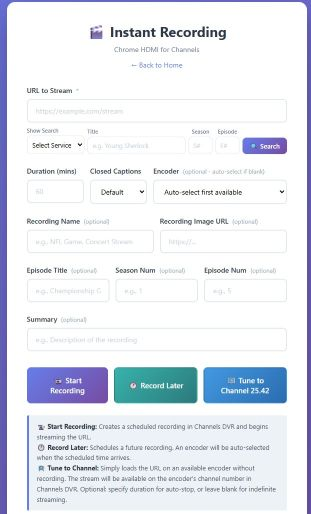
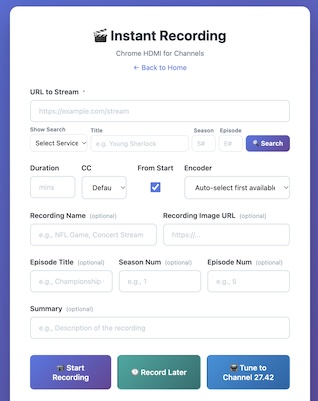
Document From Start and in-stream login; fit CC and the options row on phones
- README: add From Start to Instant Recording, the fromstart parameter for
  M3U URLs, and logging in during a stream when a service is logged out.
  Update the Instant Recording screenshot.
- Instant page: widen the CC box so "Default" isn't cut off, taking the
  space from Duration (with less side padding so "mins" still fits).
- On phones, keep Duration, CC and From Start on one line and let Encoder
  wrap below at full width, instead of stacking all four.

diff --git a/constants.js b/constants.js
@@ -2281,6 +2281,16 @@ const INSTANT_PAGE_HTML = `
                 margin-bottom: 24px;
             }
 
+            /* Keep Duration, CC and From Start on one line; Encoder wraps below at full width */
+            .form-row.options-row {
+                flex-direction: row;
+                flex-wrap: wrap;
+            }
+
+            .form-row.options-row .form-group.wide {
+                flex: 1 1 100%;
+            }
+
             .header h1 {
                 font-size: 24px;
             }
@@ -2340,8 +2350,8 @@ const INSTANT_PAGE_HTML = `
                 <div id="search_status" style="margin-top:6px;font-size:12px;color:#718096;display:none;"></div>
             </div>
 
-            <div class="form-row">
-                <div class="form-group narrow">
+            <div class="form-row options-row">
+                <div class="form-group narrow" style="flex:0.5;">
                     <label>
                         Duration
                     </label>
@@ -2350,12 +2360,14 @@ const INSTANT_PAGE_HTML = `
                         name="recording_duration"
                         id="recording_duration"
                         placeholder="mins"
+                        style="padding-left:10px;padding-right:10px;"
                         min="1"
                         step="1"
                     />
                 </div>
 
-                <div class="form-group narrow">
+                <!-- Wider than the other narrow fields so "Default" isn't cut off -->
+                <div class="form-group narrow" style="flex:0.75;">
                     <label>
                         CC
                     </label>

diff --git a/README.md b/README.md
@@ -263,6 +263,8 @@ For services not listed, use [Remote Access](#remote-access) to log in manually 
 
 **Automatic Login Check**: opt individual services in via their **Include in Automatic Login Check** checkbox to have CH4C periodically re-verify they're still logged in on each running encoder — and log back in immediately if a session has expired — without waiting for a failed stream to notice. Checks run during low-usage hours (1-3 AM local time) on a configurable weekly interval; encoders that are actively streaming are skipped, and the last run's result is shown on the Login Manager.
 
+**Login during a stream**: if a stream finds a service logged out (for example, the "Sign in for full access" prompt on a TBS/TNT free preview), CH4C logs in on that encoder's browser using the saved credentials, preferring the service's own over the shared TV provider credentials. It then restores fullscreen and carries on with the stream, which stays open throughout.
+
 ### Settings
 
 Navigate to `http://<CH4C_IP>:<CH4C_PORT>/settings` to configure:
@@ -309,6 +311,8 @@ http://<CH4C_IP>:2442/stream?url=https%3A%2F%2Fwatch.sling.com%2F1%2Fchannel%2F.
 http://<CH4C_IP>:2442/stream?url=https%3A%2F%2Fwww.espn.com%2Fwatch%2F...&cc=English
 ```
 
+**From Start in M3U URLs**: Streams started from Channels DVR or an M3U entry stay at the live point on live events, and seek back to the beginning when an on-demand show resumes partway. Append `&fromstart=1` to start a live event from the beginning, or `&fromstart=0` to keep an on-demand show's saved position. This works on Prime Video, Peacock, and Disney+ (Disney+ live events can't be rewound). See [From Start](#instant-recording) for details.
+
 **Create a new Custom Channel in Channels DVR using the playlist.m3u URL found in your M3U Manager main screen:**
 
 ![Custom Channel in Channels DVR](./assets/customchannelm3umgr.jpg)
@@ -322,6 +326,7 @@ Navigate to `http://<CH4C_IP>:<CH4C_PORT>/instant` to:
 - Add your own show metadata that will be visible in the Channels DVR Recordings
 - **Show Search**: automatically look up a specific episode or movie from a supported streaming service and pre-fill all recording metadata (title, episode, duration, artwork, and direct watch URL)
 - **Closed Captions**: select Default, English, or Off from the CC dropdown. Default leaves the service's caption state unchanged. English or Off will open the player's subtitle menu and apply the selection after playback starts. If the CC menu is unavailable at startup (e.g., during pre-roll ads), CH4C retries in the background for up to 3 minutes. Supported on Prime Video, Disney+, Peacock, Max (HBO Max), Sling TV, ESPN, Apple TV+, Netflix, and YouTube.
+- **From Start**: checked by default. A live event is rewound to its start, and an on-demand show that resumes partway (from an earlier viewing) is moved back to the beginning. Uncheck it to record from where playback starts instead: the live point for live events, or the saved position for on-demand shows. Supported on Prime Video, Peacock, and Disney+. Disney+ live events can't be rewound, so they always record from the live point. The duration is counted from when the recording starts, so when rewinding a live event that's already underway, enter the event's full length rather than the time remaining.
 
 Enter the show name and optionally an episode in the Show Search field, select a service, and click **Search**. The matching episode or movie details will be populated automatically — just select an encoder and start the recording.
 
